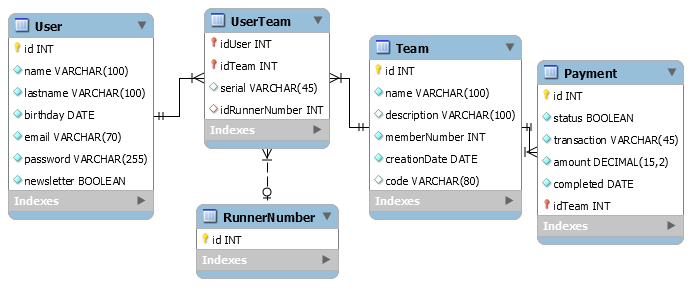
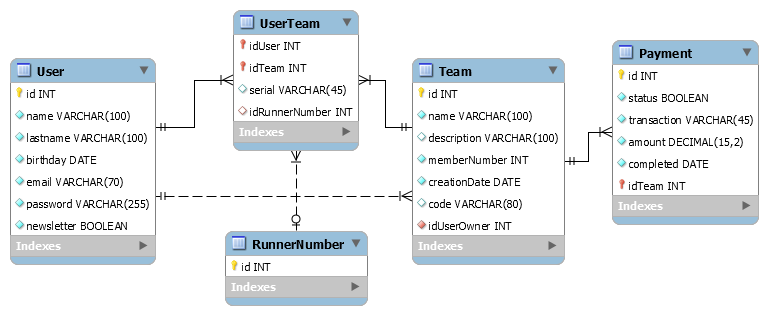
Team model modified: added a foreign key (User) that refers to the user that created the team. Proper relationships modified in both Team and User classes. Views modified to reflect this change.

diff --git a/app/controllers/team_controller.rb b/app/controllers/team_controller.rb
@@ -3,6 +3,7 @@ require 'rack'
 class TeamController < ApplicationController
 	include Rack::Utils
 	before_action :set_team, only: [:manage_team, :update_team, :add_to_team, :find_user, :remove_from_team, :delete_team]
+	before_action :verify_team_owner, only: [:update_team, :add_to_team, :find_user, :remove_from_team, :delete_team]
 	
 	def index
 		user_team_array = @user.user_team.to_a.in_groups_of(3)
@@ -20,6 +21,7 @@ class TeamController < ApplicationController
 				team.memberNumber = params[:memberNumber].blank? ? 0  : params[:memberNumber]
 				team.creationDate = Date.current.to_s
 				team.code = SecureRandom.hex(8)
+				team.idUserOwner = @user.id
 				
 				format.json do
 					if team.save
@@ -160,6 +162,27 @@ private
 			else
 				flash[:alert_type] = 'danger'
 				flash[:notice] = 'Ese equipo no se encuentra disponible.'
+				redirect_to '/teams'
+			end
+		end
+	end
+	
+	def verify_team_owner
+		if @team.user != @user
+			if request.xhr?
+				respond_to do |format|
+					format.json do
+						render json: {
+							status: 1,
+							errors: {
+								idTeam: ['Usted no tiene los permisos para hacer cambios sobre este equipo.']
+							}
+						}
+					end
+				end
+			else
+				flash[:alert_type] = 'danger'
+				flash[:notice] = 'Usted no tiene los permisos para hacer cambios sobre este equipo.'
 				redirect_to '/teams'
 			end
 		end

diff --git a/app/models/team.rb b/app/models/team.rb
@@ -1,6 +1,7 @@
 class Team < ApplicationRecord
 	self.table_name = 'team'
 	has_many :user_team, foreign_key: 'idTeam'
+	belongs_to :user, foreign_key: 'idUserOwner'
 	
 	validates :name, {
 		presence: { message: 'El nombre es requerido.' },

diff --git a/app/models/user.rb b/app/models/user.rb
@@ -1,6 +1,7 @@
 class User < ApplicationRecord
 	self.table_name = 'user'
 	has_many :user_team, foreign_key: 'idUser'
+	has_many :team, foreign_key: 'idUserOwner'
 	
 	validates :name, {
 		presence: { message: 'El nombre es requerido.' },
